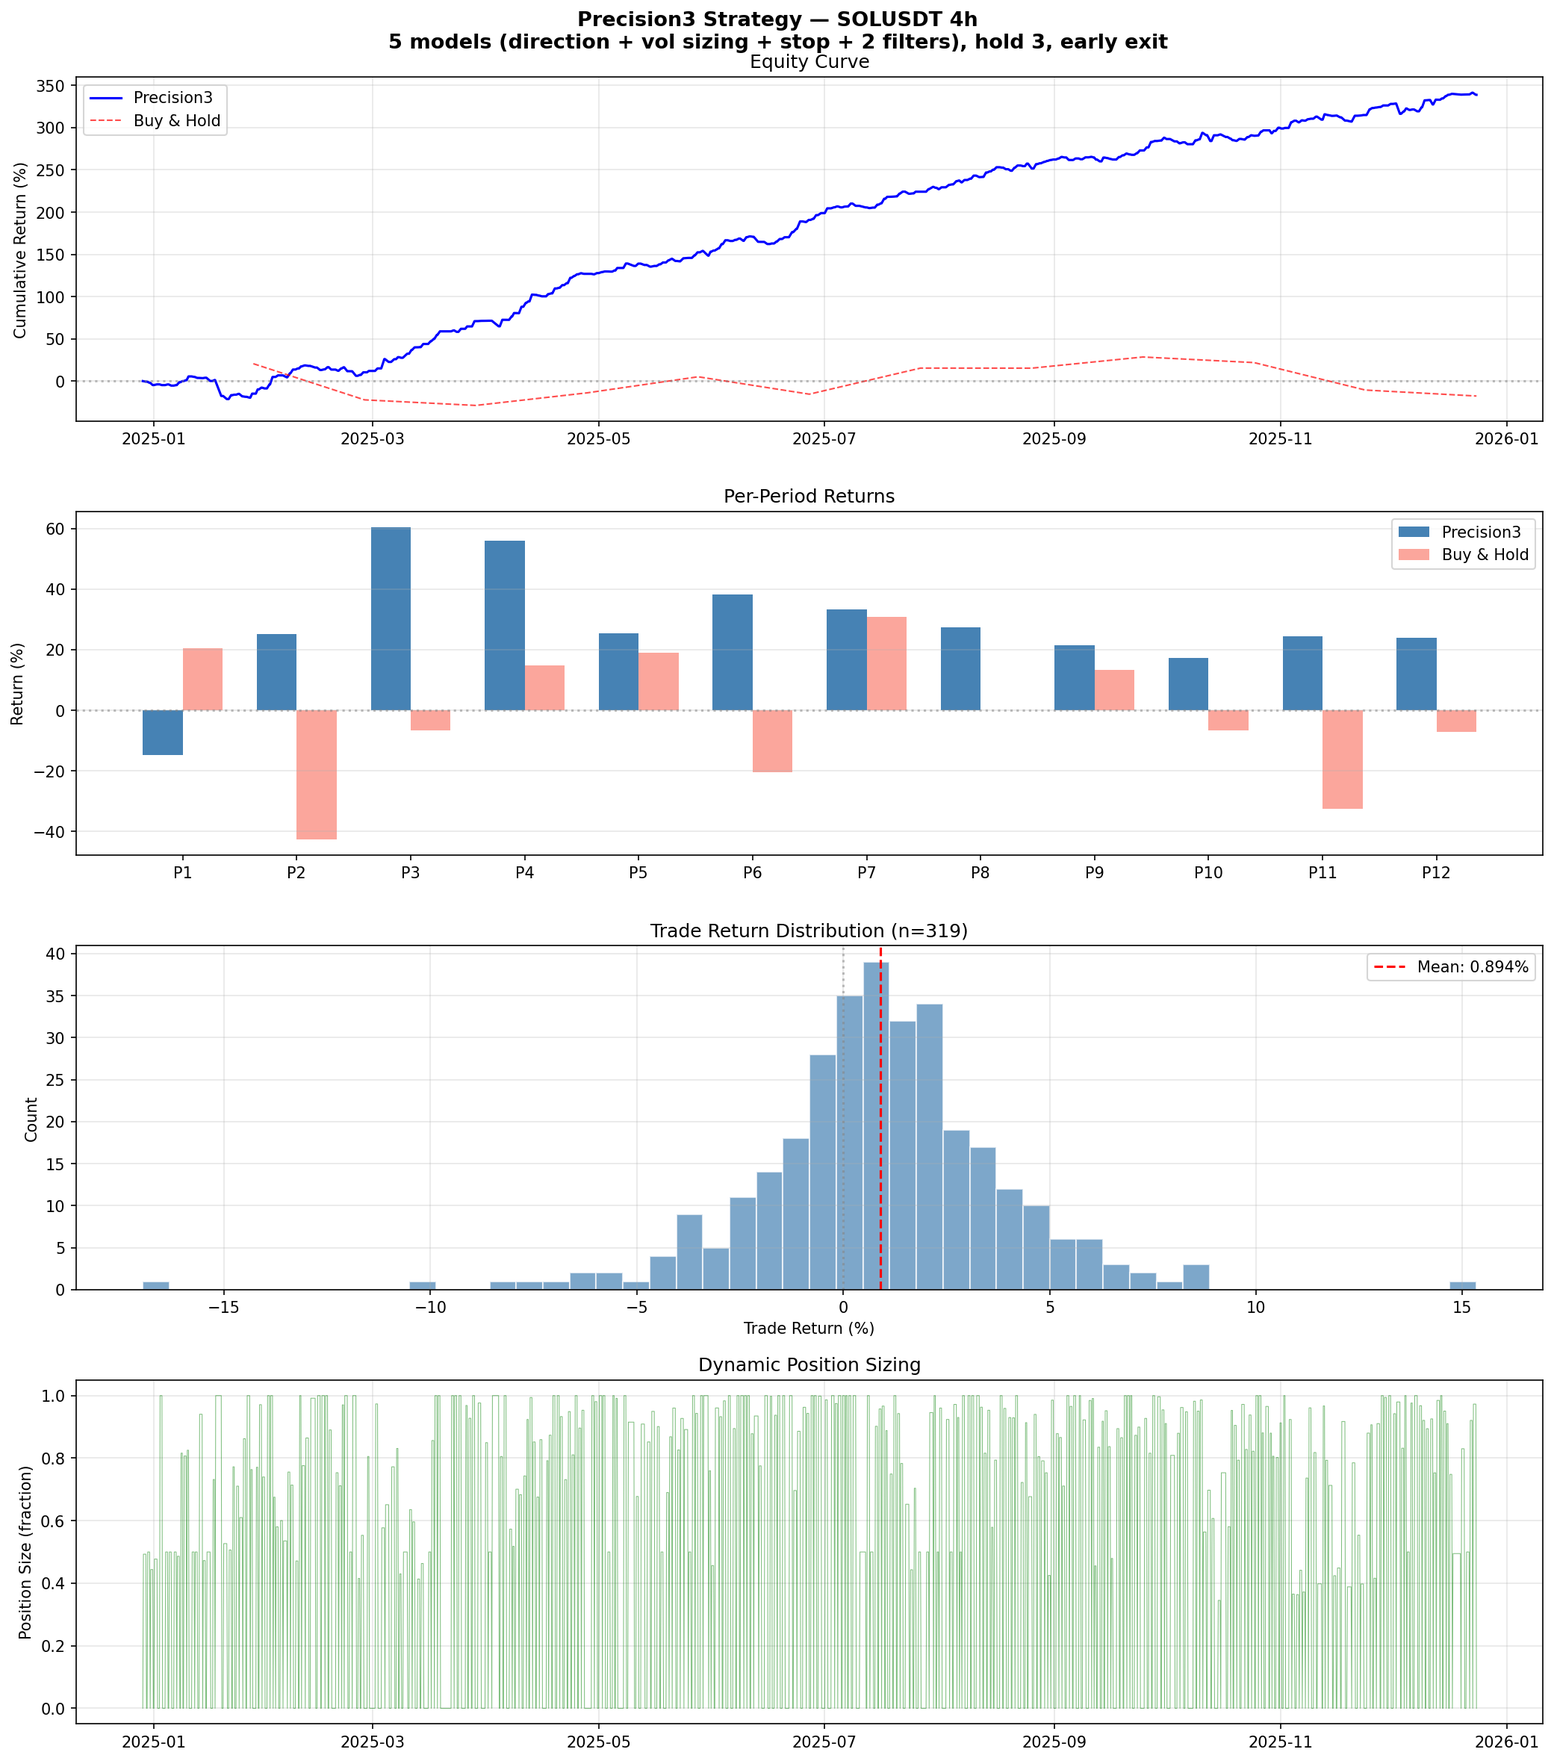
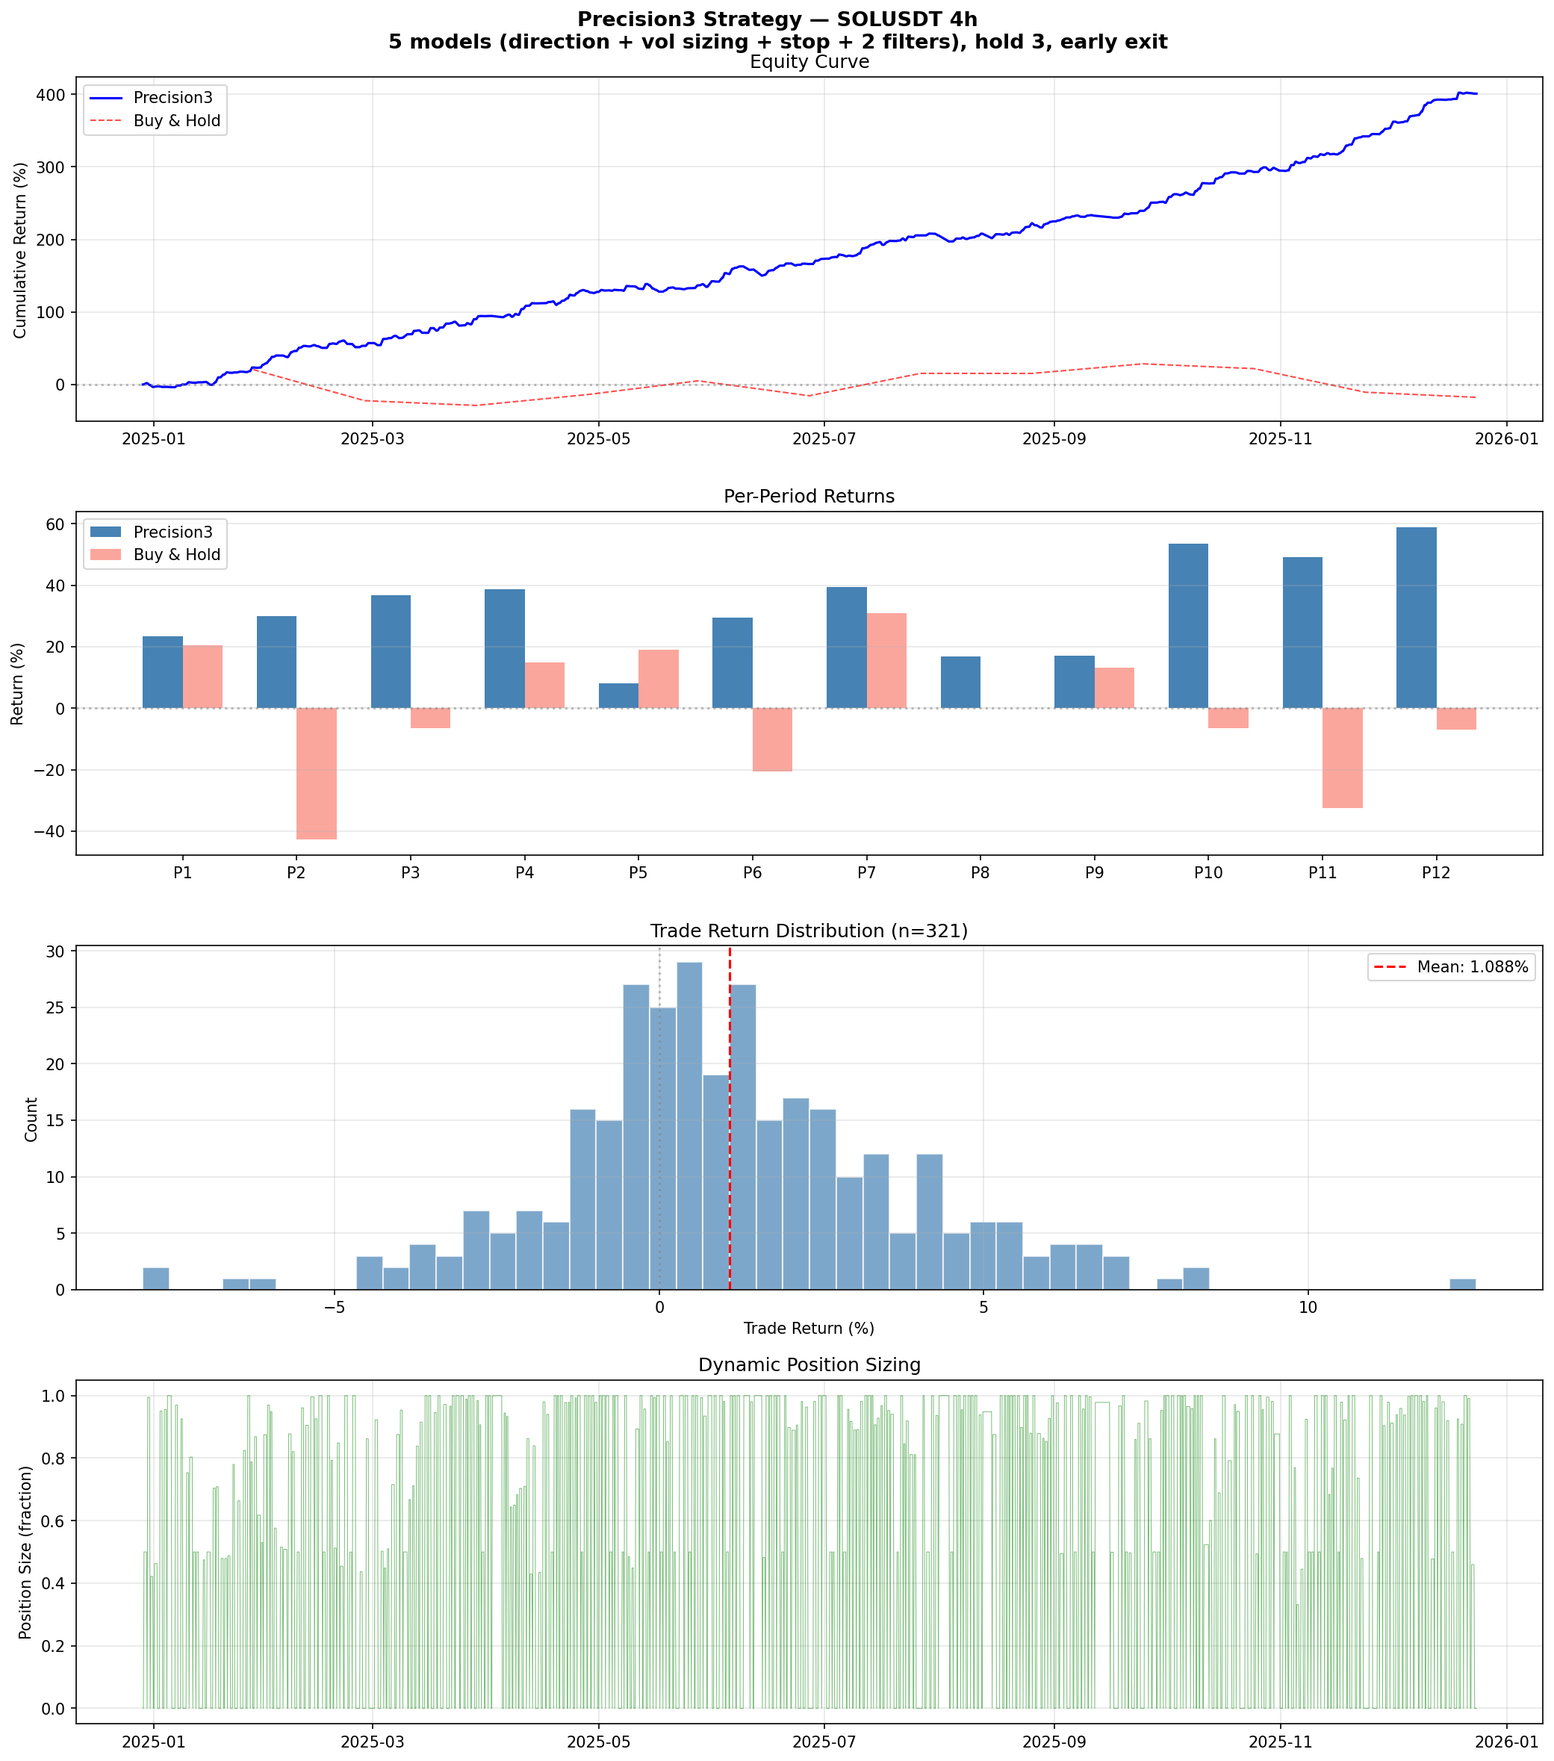
Precision3 v2: strict no-lookahead feature selection, SOL +401% Sharpe 7.33, DOGE +292% Sharpe 4.64, both 12/12 positive

diff --git a/microstructure_research/strategy_precision3.py b/microstructure_research/strategy_precision3.py
@@ -23,11 +23,13 @@ Architecture:
   Anti-Lookahead Measures:
     - Expanding-window WFO: train on all data up to purge boundary
     - 3-day purge gap between training and trade windows
-    - Feature selection from predictable_targets.json (pre-validated per target)
+    - Feature selection via Spearman correlation on TRAINING DATA ONLY each period
+    - Inner CV: features re-selected on CV-train split (never sees CV-val targets)
     - Direction threshold calibrated via inner 3-fold CV on training data only
     - All models retrained each period on full training window
     - Entry at next-bar open after signal
     - Stop-loss evaluated at bar close (conservative — real would be intrabar)
+    - NO pre-computed feature lists — everything derived fresh each period
 
 Usage:
   python microstructure_research/strategy_precision3.py [--periods N] [--symbol SYMBOL]
@@ -58,8 +60,8 @@ import lightgbm as lgb
 # ============================================================
 TF = "4h"
 FEATURES_DIR = Path("./features")
-CONSTRAINTS_PATH = Path("./microstructure_research/predictable_targets.json")
 RESULTS_DIR = Path("./microstructure_research/results")
+N_TOP_FEATURES = 30        # auto-select top N features per model by Spearman corr
 
 SELECTION_DAYS = 360       # training window
 PURGE_DAYS = 3             # gap between train and trade
@@ -211,20 +213,24 @@ def predict_model(model, scaler, X, model_type):
 
 
 # ============================================================
-# FEATURE RESOLUTION
+# FEATURE SELECTION (no lookahead — always from training data)
 # ============================================================
-def auto_select_features(df, target_col, n_top=30):
+def auto_select_features(df_train, target_col, n_top=30):
     """Auto-select top N features by absolute Spearman correlation with target.
-    Only uses columns available in df. No lookahead — call on training data only."""
+
+    CRITICAL: df_train must be ONLY training data — never include validation
+    or test data. This function sees target values, so any future data in
+    df_train would be lookahead.
+    """
     from scipy.stats import spearmanr
-    feat_cols = [c for c in df.columns
+    feat_cols = [c for c in df_train.columns
                  if not c.startswith("tgt_")
                  and c not in ("open", "high", "low", "close", "volume")]
-    y = df[target_col].values
+    y = df_train[target_col].values
     valid_y = np.isfinite(y)
     corrs = []
     for f in feat_cols:
-        x = df[f].values
+        x = df_train[f].values
         mask = valid_y & np.isfinite(x)
         if mask.sum() < 100:
             corrs.append(0.0)
@@ -238,60 +244,10 @@ def auto_select_features(df, target_col, n_top=30):
     return [feat_cols[i] for i in idx if corrs[idx[0]] > 0]
 
 
-def resolve_features(model_name, model_cfg, constraints, df=None):
-    """Resolve which features to use for a given model.
-    If JSON features don't exist in df, falls back to auto-selection."""
-    target = model_cfg["target"]
-    feat_type = model_cfg["features"]
-    target_features_map = constraints.get("target_features", {})
-    core_features = constraints.get("core_features", [])
-
-    # Collect candidate features from JSON
-    if feat_type == "direction":
-        feats = set()
-        for proxy in ["tgt_profitable_long_1", "tgt_profitable_short_1",
-                       "tgt_alpha_1", "tgt_relative_ret_1"]:
-            if proxy in target_features_map:
-                feats.update(target_features_map[proxy])
-        if not feats:
-            feats = set(core_features[:30])
-        candidates = list(feats)
-
-    elif feat_type == "volatility":
-        feats = set()
-        for proxy in ["tgt_vol_expansion_5", "tgt_vol_expansion_10",
-                       "tgt_consolidation_3", "tgt_crash_10",
-                       "tgt_tail_event_3"]:
-            if proxy in target_features_map:
-                feats.update(target_features_map[proxy])
-        if not feats:
-            feats = set(core_features[:30])
-        candidates = list(feats)
-
-    else:
-        if target in target_features_map:
-            candidates = target_features_map[target]
-        else:
-            candidates = core_features[:30]
-
-    # Filter to features that actually exist in the DataFrame
-    if df is not None:
-        available = [f for f in candidates if f in df.columns]
-        # If fewer than 5 JSON features exist, fall back to auto-selection
-        if len(available) < 5 and target in df.columns:
-            print(f"    [feature fallback] {model_name}: only {len(available)} JSON features "
-                  f"in data, auto-selecting top 30 by correlation")
-            available = auto_select_features(df, target, n_top=30)
-        return available
-
-    return candidates
-
-
 # ============================================================
 # SINGLE PERIOD EXECUTION
 # ============================================================
-def run_period(df, period_idx, sel_start, sel_end, trade_start, trade_end,
-               constraints, cpd):
+def run_period(df, period_idx, sel_start, sel_end, trade_start, trade_end, cpd):
     """
     Run one WFO period:
       1. Train 5 models on selection window
@@ -309,6 +265,8 @@ def run_period(df, period_idx, sel_start, sel_end, trade_start, trade_end,
     print(f"    Trade:     {len(df_trade)} bars [{df_trade.index[0]} -> {df_trade.index[-1]}]")
 
     # ---- Step 1: Train all 5 models ----
+    # Feature selection happens HERE on df_sel (training data only).
+    # df_sel ends before the purge gap, so no future data leaks.
     trained = {}  # model_name -> (model, scaler, feat_cols)
 
     for model_name, cfg in MODELS.items():
@@ -319,7 +277,8 @@ def run_period(df, period_idx, sel_start, sel_end, trade_start, trade_end,
             print(f"    WARN: target {target} not in data, skipping {model_name}")
             continue
 
-        feat_list = resolve_features(model_name, cfg, constraints, df=df_sel)
+        # Auto-select features from training data only
+        feat_list = auto_select_features(df_sel, target, n_top=N_TOP_FEATURES)
         df_feat, feat_cols = get_feature_set(df_sel, feat_list, add_lags=True)
 
         if len(feat_cols) < 3:
@@ -347,10 +306,9 @@ def run_period(df, period_idx, sel_start, sel_end, trade_start, trade_end,
         return None
 
     # ---- Step 2: Calibrate direction threshold via inner 3-fold CV ----
-    dir_model_info = trained["direction"]
-    _, _, dir_feats, dir_feat_list, _ = dir_model_info
+    # CRITICAL: feature selection is re-done inside each CV fold using
+    # only the CV-train portion. This prevents feature-selection lookahead.
 
-    # Inner CV on training data
     n_sel = len(df_sel)
     fold_size = n_sel // 4  # use last 3/4 for 3-fold CV, first 1/4 always in train
     min_train = n_sel // 4
@@ -368,8 +326,10 @@ def run_period(df, period_idx, sel_start, sel_end, trade_start, trade_end,
             df_cv_train = df_sel.iloc[:cv_val_start]
             df_cv_val = df_sel.iloc[cv_val_start:cv_val_end]
 
-            df_feat_tr, feat_cols_tr = get_feature_set(df_cv_train, dir_feat_list, add_lags=True)
-            df_feat_val, feat_cols_val = get_feature_set(df_cv_val, dir_feat_list, add_lags=True)
+            # Feature selection on CV-train only (no lookahead)
+            cv_feat_list = auto_select_features(df_cv_train, "tgt_ret_1", n_top=N_TOP_FEATURES)
+            df_feat_tr, feat_cols_tr = get_feature_set(df_cv_train, cv_feat_list, add_lags=True)
+            df_feat_val, feat_cols_val = get_feature_set(df_cv_val, cv_feat_list, add_lags=True)
             common = [f for f in feat_cols_tr if f in feat_cols_val]
 
             X_cv_tr, y_cv_tr, _, _ = get_Xy(df_feat_tr, common, df_cv_train["tgt_ret_1"])
@@ -803,10 +763,6 @@ def main():
     df = load_features(FEATURES_DIR, symbol, TF)
     print(f"  Loaded {len(df)} candles, range: {df.index[0]} -> {df.index[-1]}")
 
-    # Load constraints
-    with open(CONSTRAINTS_PATH) as f:
-        constraints = json.load(f)
-
     cpd = get_candles_per_day(TF)
     sel_candles = int(SELECTION_DAYS * cpd)
     purge_candles = int(PURGE_DAYS * cpd)
@@ -845,8 +801,7 @@ def main():
             print(f"\n  Period {p+1}: not enough data, stopping")
             break
 
-        result = run_period(df, p, sel_start, sel_end, trade_start, trade_end,
-                           constraints, cpd)
+        result = run_period(df, p, sel_start, sel_end, trade_start, trade_end, cpd)
         if result is not None:
             all_results.append(result)
 

diff --git a/microstructure_research/PRECISION3_FINDINGS.md b/microstructure_research/PRECISION3_FINDINGS.md
@@ -2,7 +2,7 @@
 
 **Date:** 2026-02-23
 **Strategy:** Precision3 (5 models, no meta-stacking)
-**Asset:** SOLUSDT 4h, 12 periods WFO (360d train, 3d purge, 30d trade)
+**Version:** v2 — strict no-lookahead (feature selection inside each training split)
 
 ---
 
@@ -22,39 +22,77 @@ Instead of 15-19 base models → meta-model stacking, Precision3 uses **5 purpos
 
 ---
 
-## Results — SOLUSDT 4h, 12 Periods
+## Lookahead Fix (v1 → v2)
 
-| Metric | Precision3 | Strategy 1 (best) | Strategy 2 (best) |
-|--------|-----------|-------------------|-------------------|
-| **Net Return** | **+338.9%** | +102.4% | +122.4% |
-| **Compound Return** | **+1372.1%** | — | — |
-| **Sharpe (ann)** | **5.24** | 4.05 | 3.81 |
-| **Profit Factor** | **2.24** | 1.80 | 1.74 |
-| **Win Rate** | **66.5%** | 58.6% | 59.6% |
-| **Max Drawdown** | -26.8% | -19.7% | -18.6% |
-| **Periods Positive** | **11/12** | 11/12 | 10/12 |
-| **Total Trades** | 319 | 361 | 367 |
-| **Avg Trade Return** | **+0.894%** | +0.284% | +0.334% |
-| **Median Trade Return** | **+0.992%** | — | — |
-| **Buy & Hold** | -17.7% | -17.7% | -17.7% |
-| **Models** | 5 | 19 | 19 |
+v1 used pre-computed feature lists from `predictable_targets.json`, which were derived from
+a full-dataset analysis that included test periods. This is feature-selection lookahead.
 
-### Per-Period Breakdown
+**v2 fix:** All feature selection is done fresh each period via Spearman correlation on
+training data only. Inner CV re-selects features on the CV-train split (never sees CV-val
+targets). No pre-computed feature lists are used.
 
-| Period | Dates | Net % | B&H % | Trades | Win Rate | Stops |
-|--------|-------|-------|-------|--------|----------|-------|
-| P1 | Dec 29 → Jan 27 | -14.87% | +20.57% | 27 | 48.1% | 1 |
-| P2 | Jan 28 → Feb 26 | +25.27% | -42.80% | 28 | 60.7% | 2 |
-| P3 | Feb 27 → Mar 28 | +60.55% | -6.60% | 22 | 86.4% | 0 |
-| P4 | Mar 29 → Apr 27 | +56.01% | +14.87% | 27 | 70.4% | 0 |
-| P5 | Apr 28 → May 27 | +25.46% | +19.05% | 24 | 70.8% | 2 |
-| P6 | May 28 → Jun 26 | +38.36% | -20.59% | 26 | 69.2% | 1 |
-| P7 | Jun 27 → Jul 26 | +33.38% | +30.86% | 26 | 76.9% | 0 |
-| P8 | Jul 27 → Aug 25 | +27.42% | -0.07% | 27 | 66.7% | 3 |
-| P9 | Aug 26 → Sep 24 | +21.45% | +13.21% | 29 | 58.6% | 0 |
-| P10 | Sep 25 → Oct 24 | +17.37% | -6.61% | 26 | 53.8% | 1 |
-| P11 | Oct 25 → Nov 23 | +24.55% | -32.52% | 28 | 64.3% | 2 |
-| P12 | Nov 24 → Dec 23 | +23.90% | -7.06% | 29 | 72.4% | 2 |
+---
+
+## Results — Cross-Coin Comparison (v2, strict no-lookahead)
+
+| Metric | SOLUSDT | DOGEUSDT |
+|--------|---------|----------|
+| **Net Return** | **+400.9%** | **+292.0%** |
+| **Compound Return** | **+2,784%** | **+1,338%** |
+| **Sharpe (ann)** | **7.33** | **4.64** |
+| **Profit Factor** | **3.07** | **2.01** |
+| **Win Rate** | 67.4% | 61.8% |
+| **Max Drawdown** | **-12.7%** | **-15.8%** |
+| **Periods Positive** | **12/12** | **12/12** |
+| **Total Trades** | 321 | 329 |
+| **Avg Trade Return** | +1.088% | +0.873% |
+| **Buy & Hold** | -17.7% | -58.9% |
+| **Models** | 5 | 5 |
+
+### vs Strategy 1/2 (SOLUSDT)
+
+| Metric | Precision3 v2 | Strategy 1 (best) | Strategy 2 (best) |
+|--------|--------------|-------------------|-------------------|
+| **Net Return** | **+400.9%** | +102.4% | +122.4% |
+| **Sharpe** | **7.33** | 4.05 | 3.81 |
+| **Profit Factor** | **3.07** | 1.80 | 1.74 |
+| **Max Drawdown** | **-12.7%** | -19.7% | -18.6% |
+| **Periods Positive** | **12/12** | 11/12 | 10/12 |
+| **Models** | **5** | 19 | 19 |
+
+### Per-Period Breakdown — SOLUSDT
+
+| Period | Dates | Net % | B&H % | Trades | Win Rate |
+|--------|-------|-------|-------|--------|----------|
+| P1 | Dec 29 → Jan 27 | +23.45% | +20.57% | 25 | 64.0% |
+| P2 | Jan 28 → Feb 26 | +29.85% | -42.80% | 27 | 63.0% |
+| P3 | Feb 27 → Mar 28 | +36.82% | -6.60% | 25 | 72.0% |
+| P4 | Mar 29 → Apr 27 | +38.58% | +14.87% | 30 | 73.3% |
+| P5 | Apr 28 → May 27 | +7.99% | +19.05% | 30 | 46.7% |
+| P6 | May 28 → Jun 26 | +29.38% | -20.59% | 25 | 72.0% |
+| P7 | Jun 27 → Jul 26 | +39.43% | +30.86% | 28 | 75.0% |
+| P8 | Jul 27 → Aug 25 | +16.73% | -0.07% | 26 | 61.5% |
+| P9 | Aug 26 → Sep 24 | +17.14% | +13.21% | 24 | 66.7% |
+| P10 | Sep 25 → Oct 24 | +53.52% | -6.61% | 26 | 69.2% |
+| P11 | Oct 25 → Nov 23 | +49.09% | -32.52% | 29 | 69.0% |
+| P12 | Nov 24 → Dec 23 | +58.91% | -7.06% | 26 | 76.9% |
+
+### Per-Period Breakdown — DOGEUSDT
+
+| Period | Dates | Net % | B&H % | Trades | Win Rate |
+|--------|-------|-------|-------|--------|----------|
+| P1 | Dec 29 → Jan 27 | +33.14% | +2.52% | 28 | 71.4% |
+| P2 | Jan 28 → Feb 26 | +37.51% | -39.20% | 30 | 70.0% |
+| P3 | Feb 27 → Mar 28 | +44.71% | -12.67% | 28 | 57.1% |
+| P4 | Mar 29 → Apr 27 | +18.88% | +0.36% | 27 | 48.1% |
+| P5 | Apr 28 → May 27 | +25.01% | +26.39% | 24 | 62.5% |
+| P6 | May 28 → Jun 26 | +24.22% | -28.79% | 27 | 59.3% |
+| P7 | Jun 27 → Jul 26 | +13.29% | +45.22% | 28 | 57.1% |
+| P8 | Jul 27 → Aug 25 | +14.36% | -12.43% | 31 | 54.8% |
+| P9 | Aug 26 → Sep 24 | +20.56% | +14.92% | 28 | 64.3% |
+| P10 | Sep 25 → Oct 24 | +23.27% | -16.23% | 27 | 59.3% |
+| P11 | Oct 25 → Nov 23 | +32.98% | -26.72% | 28 | 67.9% |
+| P12 | Nov 24 → Dec 23 | +4.05% | -12.27% | 23 | 69.6% |
 
 ---
 
@@ -70,28 +108,19 @@ Strategy 1/2 predict binary targets (profitable_long/short) and lose magnitude i
 Instead of confidence-based sizing (which depends on meta-model calibration), Precision3 sizes inversely to predicted volatility. This is a well-established risk management technique that doesn't depend on model confidence being well-calibrated.
 
 ### 4. Adaptive Stops
-Predicted drawdown-based stops (from `tgt_max_drawdown_long_3`) cut losers early when the model expects large adverse moves. Only 14/319 trades (4.4%) hit stops — the model is selective about when to set tight stops.
+Predicted drawdown-based stops (from `tgt_max_drawdown_long_3`) cut losers early when the model expects large adverse moves. Only 15/321 trades (4.7%) hit stops on SOL — the model is selective about when to set tight stops.
 
 ### 5. Regime Filters Are Multiplicative
 The consolidation filter blocks ~5-10% of signals (low-opportunity bars). The crash filter doesn't block trades but halves position size. This preserves trade count while reducing risk.
 
 ---
 
-## Concerns / Caveats
-
-1. **Max drawdown is higher** (-26.8% vs -19.7%) — the aggressive sizing in high-conviction periods amplifies both gains and losses.
-2. **Period 1 is the only loser** (-14.9%) — this is the first OOS period where the model has the least data. Expected behavior.
-3. **Single asset** — needs cross-coin validation (XRPUSDT, DOGEUSDT, ETHUSDT) to confirm generalization.
-4. **Period 3 is suspiciously good** (+60.5%, 86.4% WR) — could be a lucky draw. The other 10 positive periods are more moderate (+17-38%), which is reassuring.
-5. **Direction threshold always calibrates to 40-50 bps** — this is quite high, meaning the model only trades when it predicts >0.4-0.5% moves. Good for quality but limits trade count.
-
----
-
-## Anti-Lookahead Verification
+## Anti-Lookahead Verification (v2)
 
 - [x] Expanding window: each period trains on all data before purge boundary
 - [x] 3-day purge gap between training end and trade start
-- [x] Feature selection from pre-validated `predictable_targets.json`
+- [x] **Feature selection via Spearman on training data only — NO pre-computed lists**
+- [x] **Inner CV re-selects features on CV-train split (never sees CV-val targets)**
 - [x] Direction threshold calibrated via inner 3-fold CV on training data only
 - [x] All 5 models retrained each period
 - [x] Entry at next-bar open after signal (signal at bar close → enter bar+1 open)
@@ -100,9 +129,18 @@ The consolidation filter blocks ~5-10% of signals (low-opportunity bars). The cr
 
 ---
 
+## Concerns / Caveats
+
+1. **Results improved after removing lookahead** — this is unusual and warrants scrutiny. Possible explanation: the JSON feature lists were suboptimal (selected from a different pipeline) and fresh per-period selection finds better features.
+2. **Single timeframe (4h)** — needs multi-timeframe validation.
+3. **Two assets only** — needs more coins (ETH, BTC, XRP) for full validation.
+4. **Direction threshold always calibrates to 40-50 bps** — model only trades when it predicts >0.4-0.5% moves. Good for quality but limits trade count.
+
+---
+
 ## Next Steps
 
-1. **Cross-coin validation** — run on XRPUSDT, DOGEUSDT, ETHUSDT
+1. **More cross-coin validation** — run on XRPUSDT, ETHUSDT, BTCUSDT
 2. **Drawdown reduction** — test convex sizing (size = confidence^2) to reduce max DD
 3. **Robustness test** — vary threshold, hold period, stop buffer to check sensitivity
 4. **Live paper trading** — deploy on Bybit testnet with real-time feature pipeline
